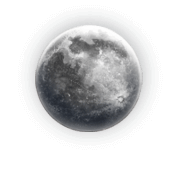
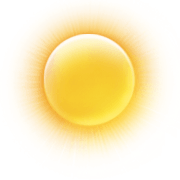
更改天气api，和风，万年

diff --git a/pages/index/index.js b/pages/index/index.js
@@ -11,6 +11,33 @@ Page({
             url: '../../pages/switchcity/switchcity',
         })
     },
+    getWeatherAll() {
+      let _this = this
+      API.getCityId(app.globalData.location)
+        .then((cityId) => {
+          console.log(cityId)
+          app.globalData.cityId = cityId.basic.cid.slice(2)
+          
+          API.getWeather(app.globalData.cityId)
+            .then((weather) => {
+              weather.format_last_update = weather.observe.up_time
+              // weather.bg = Util.getBackground(weather.now.code)
+              weather.bg = weather.observe.day.bgPic
+
+              weather.hourfc.forEach((hour) => {
+                hour.img = `../../images/weather/${hour.type}.png`
+                hour.format_time = hour.time.slice(8, 10)
+              })
+              weather.forecast.forEach((item) => {
+                item.imgDay = `../../images/weather/${item.day.type}.png`
+                item.imgNight = `../../images/weather/${item.night.type}.png`
+                item.timeDate = item.date.slice(4, 9)
+              })
+              _this.setData({ weather })
+              app.globalData.weather = weather
+            }).catch(_this.onError)
+        }).catch(_this.onError)
+    },
 
     onLoad(options) {
 
@@ -18,27 +45,9 @@ Page({
     },
     
     onShow() {
-
-        let _this = this
-    
-        API.getWeather(app.globalData.inputCity)
-            .then((weather) => {
-                weather.format_last_update = Util.formatTime(weather.last_update)
-                weather.bg = Util.getBackground(weather.now.code)
-                _this.setData({weather})
-                app.globalData.weather = weather
-            }).catch(_this.onError)
-
-        API.get24hWeather(app.globalData.inputCity)
-            .then((hourly) => {
-                hourly.forEach((hour) => {
-                    hour.img = `../../images/weather/${hour.code}.png`
-                    hour.format_time = Util.formatHour(hour.time)
-                })
-                _this.setData({hourly})
-                app.globalData.hourly = hourly
-            }).catch(_this.onError)
-        
+      
+     this.getWeatherAll()
+            
     },
     onReady() {
   
@@ -50,32 +59,15 @@ Page({
 
     } ,
     onPullDownRefresh: function() {
-      let _this = this
       app.globalData.inputCity = ''
-      API.getWeather(app.globalData.inputCity)
-        .then((weather) => {
-          weather.format_last_update = Util.formatTime(weather.last_update)
-          weather.bg = Util.getBackground(weather.now.code)
-          _this.setData({ weather })
-          app.globalData.weather = weather
-        }).catch(_this.onError)
-
-      API.get24hWeather(app.globalData.inputCity)
-        .then((hourly) => {
-          hourly.forEach((hour) => {
-            hour.img = `../../images/weather/${hour.code}.png`
-            hour.format_time = Util.formatHour(hour.time)
-          })
-          _this.setData({ hourly })
-          app.globalData.hourly = hourly
-        }).catch(_this.onError)
+      this.getWeatherAll()
       wx.stopPullDownRefresh()
     },
     onShareAppMessage: function () {
         // 用户点击右上角分享
         return {
             title: '天气', // 分享标题
-            desc: '要送伞么', // 分享描述
+            desc: '要伞么', // 分享描述
             path: '/pages/index/index' // 分享路径
         }
     },

diff --git a/utils/api.js b/utils/api.js
@@ -1,19 +1,20 @@
 let app = getApp()
 
 
-function get24hWeather(location){
-
+function getWeather(location){
+  let city = location
+  console.log(city)
   return new Promise((resolve, reject)=>{
     wx.request({
-      url: 'https://weixin.jirengu.com/weather/future24h?key=study_javascript_in_jirengu.com',
+      url: 'http://zhwnlapi.etouch.cn/Ecalender/api/v2/weather?',
       data: {
-        location
+       "citykey": city
       },
       success (res) {
 
-       
-        if(res.data&& res.data.status && res.data.status==='OK'&& res.data.hourly){
-          resolve(res.data.hourly)
+        console.log('hourly',res.data)
+        if(res.data&& res.data.hourfc.length >0){
+          resolve(res.data)
         }else{
           reject({status: 'error', msg: '获取当天24小时天气失败'})
         }
@@ -25,19 +26,23 @@ function get24hWeather(location){
     })
   })
 }
-function getWeather(location) {
-  let city = location ? location : ''
 
+
+function getCityId(location) {
+ 
+  let city = location ? location : 'auto_ip'
+  console.log(city)
   return new Promise((resolve, reject) => {
     wx.request({
-      url: 'https://weixin.jirengu.com/weather?key=study_javascript_in_jirengu.com',
+      url: 'https://free-api.heweather.com/s6/weather/now?key=54d607c6ea0349be837025b750a778ee',
       data: {
         "location": city
       },
       success(res) {
-   
-        if (res.data && res.data.weather && res.data.weather.length > 0) {
-          resolve(app.globalData.weather = res.data.weather[0])
+        console.log(res.data)
+        if (res.data && res.data.HeWeather6[0] && res.data.HeWeather6.length > 0 ) {
+          console.log('11')
+          resolve(res.data.HeWeather6[0])
         } else {
           reject({ status: 'error', msg: '获取城市 id 失败' })
         }
@@ -51,6 +56,7 @@ function getWeather(location) {
 }
 
 module.exports = {
-  get24hWeather,
-  getWeather
+  getCityId,
+  getWeather,
+ 
 }

diff --git a/pages/detail/detail.js b/pages/detail/detail.js
@@ -10,15 +10,23 @@ Page({
     var _this = this
  
     if (app.globalData.weather) {
+      console.log('就该选我',app.globalData.weather)
       _this.setData({ weather: app.globalData.weather })
       return
     }
-    API.getWeather(app.globalData.inputCity)
+    API.getWeather(app.globalData.cityId)
       .then((weather) => {
-        weather.format_last_update = Util.formatTime(weather.last_update)
-        weather.bg = Util.getBackground(weather.now.code)
-        _this.setData({ weather })
-        app.globalData.weather = weather
+              
+          weather.bg = weather.forecast[2].day.bgPic
+          weather.forecast.forEach((item) => {
+            item.imgDay = `../../images/weather/${item.day.type}.png`
+            item.imgNight = `../../images/weather/${item.night.type}.png`
+            item.timeDate = item.date.slice(4,9)
+          })
+          
+          _this.setData({ weather })
+          app.globalData.weather = weather
+         
       }).catch(_this.onError)
   },
   onLoad (){

diff --git a/app.js b/app.js
@@ -17,7 +17,9 @@ App({
     globalData: {
         weather: null,
         hourly: null,
-        inputCity: ''
+        location: null,
+        inputCity: '',
+        cityId: null
    
     }
 })
